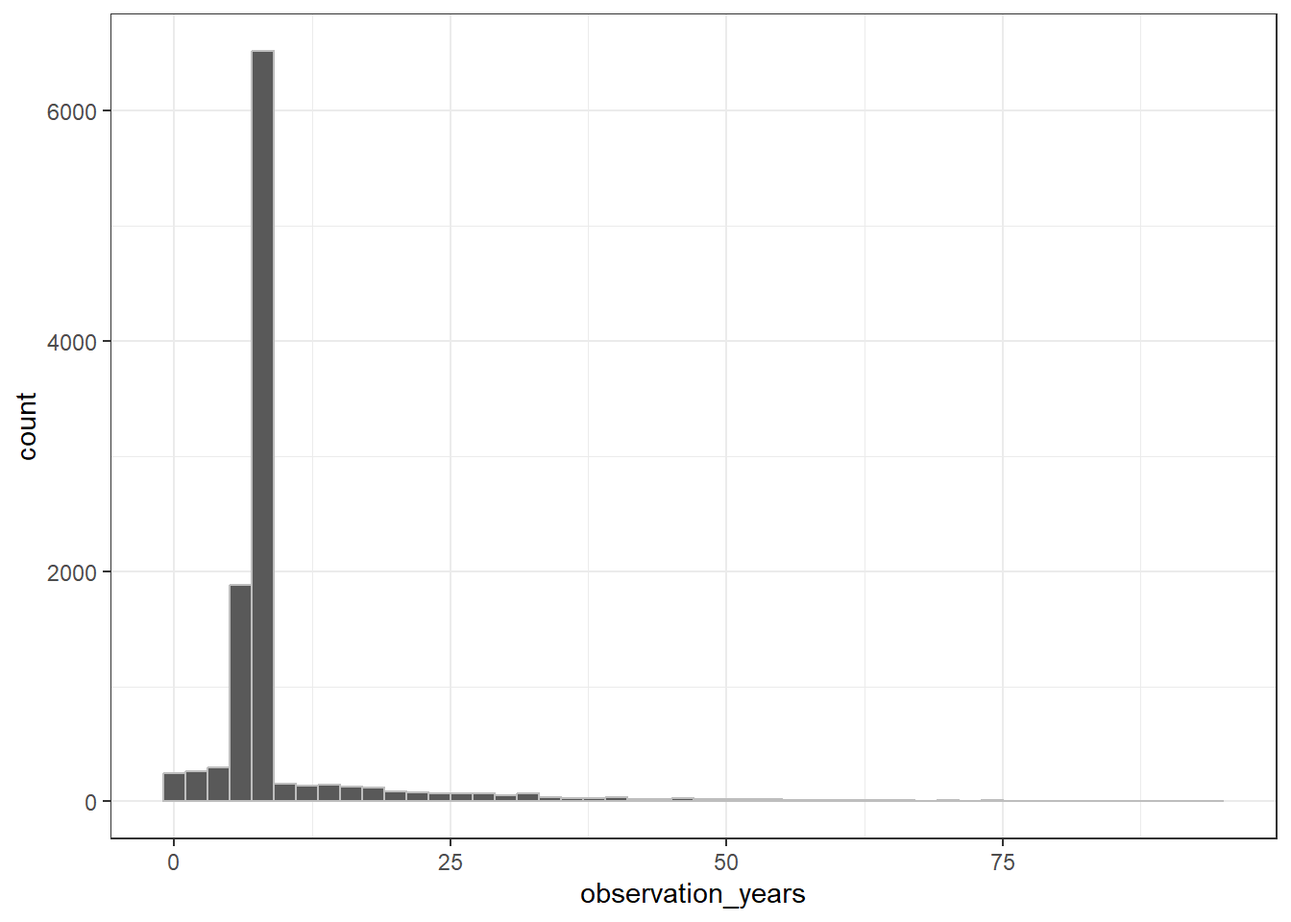
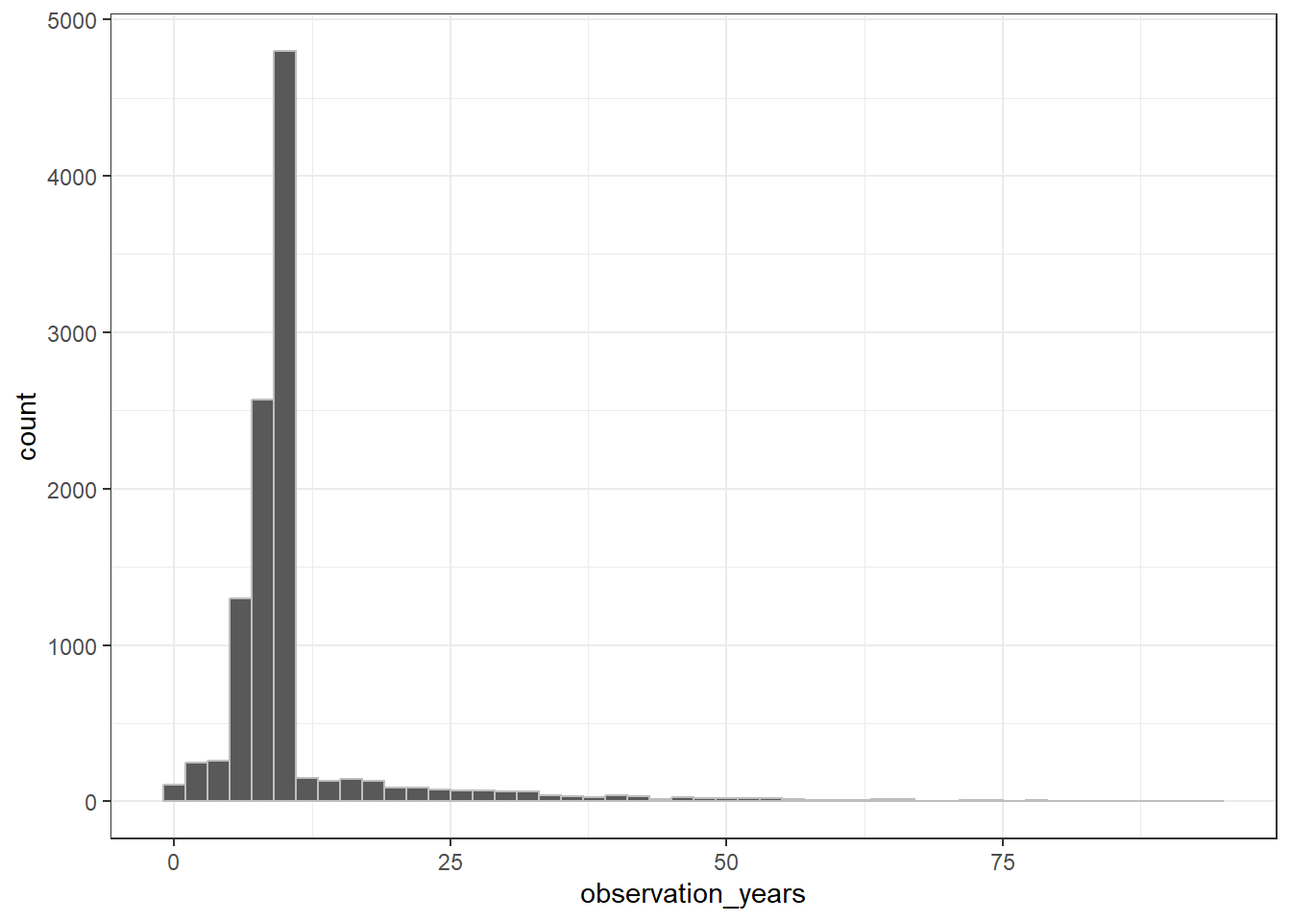
using clock

diff --git a/_book/ch_3_exploring_the_cdm.html b/_book/ch_3_exploring_the_cdm.html
@@ -196,18 +196,6 @@ pre > code.sourceCode > span > a:first-child::before { text-decoration: underlin
 </li>
         <li class="sidebar-item">
   <div class="sidebar-item-container"> 
-  <a href="./ch_9_organising_study_code.html" class="sidebar-item-text sidebar-link">
- <span class="menu-text"><span class="chapter-number">9</span>&nbsp; <span class="chapter-title">Organising study code</span></span></a>
-  </div>
-</li>
-        <li class="sidebar-item">
-  <div class="sidebar-item-container"> 
-  <a href="./ch_10_efficient_study_code.html" class="sidebar-item-text sidebar-link">
- <span class="menu-text"><span class="chapter-number">10</span>&nbsp; <span class="chapter-title">Efficient study code</span></span></a>
-  </div>
-</li>
-        <li class="sidebar-item">
-  <div class="sidebar-item-container"> 
   <a href="./references.html" class="sidebar-item-text sidebar-link">
  <span class="menu-text">References</span></a>
   </div>
@@ -378,8 +366,8 @@ FROM (
       observation_period_end_date,
       period_type_concept_id
     FROM main.person
-    LEFT JOIN og_001_1717170344
-      ON (person.person_id = og_001_1717170344.person_id)
+    LEFT JOIN og_001_1718360923
+      ON (person.person_id = og_001_1718360923.person_id)
   ) q01
 ) q01
 GROUP BY observation_period_start_year</code></pre>
@@ -443,7 +431,7 @@ GROUP BY observation_period_start_year</code></pre>
 <span id="cb14-6"><a href="#cb14-6" aria-hidden="true" tabindex="-1"></a>  <span class="fu">tally</span>()</span></code><button title="Copy to Clipboard" class="code-copy-button"><i class="bi"></i></button></pre></div>
 <div class="cell-output cell-output-stdout">
 <pre><code># Source:   SQL [1 x 1]
-# Database: DuckDB v0.10.3-dev775 [eburn@Windows 10 x64:R 4.4.0/C:\Users\eburn\AppData\Local\Temp\RtmpERbxve\file31a41afc7eb1.duckdb]
+# Database: DuckDB v1.0.0 [eburn@Windows 10 x64:R 4.4.0/C:\Users\eburn\AppData\Local\Temp\Rtmp2VsoWf\fileb90678c661f.duckdb]
       n
   &lt;dbl&gt;
 1  9305</code></pre>
@@ -456,7 +444,7 @@ GROUP BY observation_period_start_year</code></pre>
 <span id="cb16-6"><a href="#cb16-6" aria-hidden="true" tabindex="-1"></a>  <span class="fu">tally</span>()</span></code><button title="Copy to Clipboard" class="code-copy-button"><i class="bi"></i></button></pre></div>
 <div class="cell-output cell-output-stdout">
 <pre><code># Source:   SQL [1 x 1]
-# Database: DuckDB v0.10.3-dev775 [eburn@Windows 10 x64:R 4.4.0/C:\Users\eburn\AppData\Local\Temp\RtmpERbxve\file31a41afc7eb1.duckdb]
+# Database: DuckDB v1.0.0 [eburn@Windows 10 x64:R 4.4.0/C:\Users\eburn\AppData\Local\Temp\Rtmp2VsoWf\fileb90678c661f.duckdb]
        n
    &lt;dbl&gt;
 1 165681</code></pre>
@@ -475,7 +463,7 @@ GROUP BY observation_period_start_year</code></pre>
 <span id="cb18-9"><a href="#cb18-9" aria-hidden="true" tabindex="-1"></a>  <span class="fu">tally</span>()</span></code><button title="Copy to Clipboard" class="code-copy-button"><i class="bi"></i></button></pre></div>
 <div class="cell-output cell-output-stdout">
 <pre><code># Source:   SQL [1 x 1]
-# Database: DuckDB v0.10.3-dev775 [eburn@Windows 10 x64:R 4.4.0/C:\Users\eburn\AppData\Local\Temp\RtmpERbxve\file31a41afc7eb1.duckdb]
+# Database: DuckDB v1.0.0 [eburn@Windows 10 x64:R 4.4.0/C:\Users\eburn\AppData\Local\Temp\Rtmp2VsoWf\fileb90678c661f.duckdb]
       n
   &lt;dbl&gt;
 1  9305</code></pre>
@@ -487,7 +475,7 @@ GROUP BY observation_period_start_year</code></pre>
 <span id="cb20-5"><a href="#cb20-5" aria-hidden="true" tabindex="-1"></a>  <span class="fu">tally</span>()</span></code><button title="Copy to Clipboard" class="code-copy-button"><i class="bi"></i></button></pre></div>
 <div class="cell-output cell-output-stdout">
 <pre><code># Source:   SQL [1 x 1]
-# Database: DuckDB v0.10.3-dev775 [eburn@Windows 10 x64:R 4.4.0/C:\Users\eburn\AppData\Local\Temp\RtmpERbxve\file31a41afc7eb1.duckdb]
+# Database: DuckDB v1.0.0 [eburn@Windows 10 x64:R 4.4.0/C:\Users\eburn\AppData\Local\Temp\Rtmp2VsoWf\fileb90678c661f.duckdb]
        n
    &lt;dbl&gt;
 1 165681</code></pre>
@@ -565,7 +553,7 @@ Vocabulary tables
 <div class="cell-output cell-output-stdout">
 <pre><code>Rows: ??
 Columns: 10
-Database: DuckDB v0.10.3-dev775 [eburn@Windows 10 x64:R 4.4.0/C:\Users\eburn\AppData\Local\Temp\RtmpERbxve\file31a41afc7eb1.duckdb]
+Database: DuckDB v1.0.0 [eburn@Windows 10 x64:R 4.4.0/C:\Users\eburn\AppData\Local\Temp\Rtmp2VsoWf\fileb90678c661f.duckdb]
 $ concept_id       &lt;int&gt; 45756805, 45756804, 45756803, 45756802, 45756801, 457…
 $ concept_name     &lt;chr&gt; "Pediatric Cardiology", "Pediatric Anesthesiology", "…
 $ domain_id        &lt;chr&gt; "Provider", "Provider", "Provider", "Provider", "Prov…
@@ -585,7 +573,7 @@ $ invalid_reason   &lt;chr&gt; NA, NA, NA, NA, NA, NA, NA, NA, NA, NA, NA, NA, N
 <div class="cell-output cell-output-stdout">
 <pre><code>Rows: ??
 Columns: 6
-Database: DuckDB v0.10.3-dev775 [eburn@Windows 10 x64:R 4.4.0/C:\Users\eburn\AppData\Local\Temp\RtmpERbxve\file31a41afc7eb1.duckdb]
+Database: DuckDB v1.0.0 [eburn@Windows 10 x64:R 4.4.0/C:\Users\eburn\AppData\Local\Temp\Rtmp2VsoWf\fileb90678c661f.duckdb]
 $ concept_id_1     &lt;int&gt; 35804314, 35804314, 35804314, 35804327, 35804327, 358…
 $ concept_id_2     &lt;int&gt; 912065, 42542145, 42542145, 35803584, 42542145, 42542…
 $ relationship_id  &lt;chr&gt; "Has modality", "Has accepted use", "Is current in", …
@@ -598,7 +586,7 @@ $ invalid_reason   &lt;chr&gt; NA, NA, NA, NA, NA, NA, NA, NA, NA, NA, NA, NA, N
 <div class="cell-output cell-output-stdout">
 <pre><code>Rows: ??
 Columns: 4
-Database: DuckDB v0.10.3-dev775 [eburn@Windows 10 x64:R 4.4.0/C:\Users\eburn\AppData\Local\Temp\RtmpERbxve\file31a41afc7eb1.duckdb]
+Database: DuckDB v1.0.0 [eburn@Windows 10 x64:R 4.4.0/C:\Users\eburn\AppData\Local\Temp\Rtmp2VsoWf\fileb90678c661f.duckdb]
 $ ancestor_concept_id      &lt;int&gt; 375415, 727760, 735979, 438112, 529411, 14196…
 $ descendant_concept_id    &lt;int&gt; 4335743, 2056453, 41070383, 36566114, 4326940…
 $ min_levels_of_separation &lt;int&gt; 4, 1, 3, 2, 3, 3, 4, 3, 2, 5, 1, 3, 4, 2, 2, …
@@ -612,18 +600,53 @@ $ max_levels_of_separation &lt;int&gt; 4, 1, 5, 3, 3, 6, 12, 3, 2, 10, 1, 3, 4, 
 </section>
 <section id="working-with-dates" class="level2" data-number="3.3">
 <h2 data-number="3.3" class="anchored" data-anchor-id="working-with-dates"><span class="header-section-number">3.3</span> Working with dates</h2>
-<p>Dates are supported somewhat inconsistently by dbplyr. CDMConnector therefore provides some date functions that are tested to work across supported databases. We can use the <code>datediff()</code> function for example to calculate the difference between two dates. We can use this below to get the number of years observation periods last for.</p>
+<p>When working with dates, the best supported functions come from the <a href="https://clock.r-lib.org/">clock</a> package. In particular, the following three functions can allow us to do a lot of the date manipulations we might be interested in:</p>
+<ul>
+<li><p>clock::add_days to add days to a date</p></li>
+<li><p>clock::add_years to add years to a date</p></li>
+<li><p>clock::date_count_between to get the difference between two dates</p></li>
+</ul>
+<p>For example</p>
 <div class="cell">
-<div class="sourceCode cell-code" id="cb30"><pre class="sourceCode r code-with-copy"><code class="sourceCode r"><span id="cb30-1"><a href="#cb30-1" aria-hidden="true" tabindex="-1"></a>cdm<span class="sc">$</span>observation_period <span class="sc">%&gt;%</span></span>
-<span id="cb30-2"><a href="#cb30-2" aria-hidden="true" tabindex="-1"></a>  dplyr<span class="sc">::</span><span class="fu">mutate</span>(<span class="at">observation_years =</span> </span>
-<span id="cb30-3"><a href="#cb30-3" aria-hidden="true" tabindex="-1"></a>                  <span class="sc">!!</span>CDMConnector<span class="sc">::</span><span class="fu">datediff</span>(<span class="st">"observation_period_start_date"</span>, </span>
-<span id="cb30-4"><a href="#cb30-4" aria-hidden="true" tabindex="-1"></a>                             <span class="st">"observation_period_end_date"</span>, </span>
-<span id="cb30-5"><a href="#cb30-5" aria-hidden="true" tabindex="-1"></a>                             <span class="at">interval =</span> <span class="st">"year"</span>))  <span class="sc">%&gt;%</span> </span>
-<span id="cb30-6"><a href="#cb30-6" aria-hidden="true" tabindex="-1"></a>  <span class="fu">collect</span>() <span class="sc">%&gt;%</span> </span>
-<span id="cb30-7"><a href="#cb30-7" aria-hidden="true" tabindex="-1"></a>  <span class="fu">ggplot</span>() <span class="sc">+</span></span>
-<span id="cb30-8"><a href="#cb30-8" aria-hidden="true" tabindex="-1"></a>  <span class="fu">geom_histogram</span>(<span class="fu">aes</span>(observation_years), </span>
-<span id="cb30-9"><a href="#cb30-9" aria-hidden="true" tabindex="-1"></a>                 <span class="at">binwidth=</span><span class="dv">2</span>, <span class="at">colour=</span><span class="st">"grey"</span>) <span class="sc">+</span></span>
-<span id="cb30-10"><a href="#cb30-10" aria-hidden="true" tabindex="-1"></a>  <span class="fu">theme_bw</span>()</span></code><button title="Copy to Clipboard" class="code-copy-button"><i class="bi"></i></button></pre></div>
+<div class="sourceCode cell-code" id="cb30"><pre class="sourceCode r code-with-copy"><code class="sourceCode r"><span id="cb30-1"><a href="#cb30-1" aria-hidden="true" tabindex="-1"></a><span class="fu">library</span>(clock)</span></code><button title="Copy to Clipboard" class="code-copy-button"><i class="bi"></i></button></pre></div>
+<div class="cell-output cell-output-stderr">
+<pre><code>
+Attaching package: 'clock'</code></pre>
+</div>
+<div class="cell-output cell-output-stderr">
+<pre><code>The following object is masked from 'package:CDMConnector':
+
+    as_date</code></pre>
+</div>
+<div class="sourceCode cell-code" id="cb33"><pre class="sourceCode r code-with-copy"><code class="sourceCode r"><span id="cb33-1"><a href="#cb33-1" aria-hidden="true" tabindex="-1"></a><span class="fu">library</span>(ggplot2)</span>
+<span id="cb33-2"><a href="#cb33-2" aria-hidden="true" tabindex="-1"></a></span>
+<span id="cb33-3"><a href="#cb33-3" aria-hidden="true" tabindex="-1"></a>cdm<span class="sc">$</span>observation_period <span class="sc">|&gt;</span> </span>
+<span id="cb33-4"><a href="#cb33-4" aria-hidden="true" tabindex="-1"></a>  <span class="fu">mutate</span>(<span class="at">observation_period_start_plus_30_days =</span> <span class="fu">add_days</span>(observation_period_start_date,</span>
+<span id="cb33-5"><a href="#cb33-5" aria-hidden="true" tabindex="-1"></a>                                                   <span class="dv">30</span>L),</span>
+<span id="cb33-6"><a href="#cb33-6" aria-hidden="true" tabindex="-1"></a>         <span class="at">observation_period_start_date_plus_10_years =</span> <span class="fu">add_years</span>(observation_period_start_date,</span>
+<span id="cb33-7"><a href="#cb33-7" aria-hidden="true" tabindex="-1"></a>                                                   <span class="dv">10</span>L)) <span class="sc">|&gt;</span> </span>
+<span id="cb33-8"><a href="#cb33-8" aria-hidden="true" tabindex="-1"></a>  <span class="fu">glimpse</span>()</span></code><button title="Copy to Clipboard" class="code-copy-button"><i class="bi"></i></button></pre></div>
+<div class="cell-output cell-output-stdout">
+<pre><code>Rows: ??
+Columns: 7
+Database: DuckDB v1.0.0 [eburn@Windows 10 x64:R 4.4.0/C:\Users\eburn\AppData\Local\Temp\Rtmp2VsoWf\fileb90678c661f.duckdb]
+$ observation_period_id                       &lt;int&gt; 1, 2, 3, 4, 5, 6, 7, 8, 9,…
+$ person_id                                   &lt;int&gt; 1, 2, 3, 4, 5, 6, 7, 8, 9,…
+$ observation_period_start_date               &lt;date&gt; 2014-05-09, 1977-04-11, 2…
+$ observation_period_end_date                 &lt;date&gt; 2023-05-12, 1986-09-15, 2…
+$ period_type_concept_id                      &lt;int&gt; 44814724, 44814724, 448147…
+$ observation_period_start_plus_30_days       &lt;dttm&gt; 2014-06-08, 1977-05-11, 2…
+$ observation_period_start_date_plus_10_years &lt;dttm&gt; 2024-05-09, 1987-04-11, 2…</code></pre>
+</div>
+<div class="sourceCode cell-code" id="cb35"><pre class="sourceCode r code-with-copy"><code class="sourceCode r"><span id="cb35-1"><a href="#cb35-1" aria-hidden="true" tabindex="-1"></a>cdm<span class="sc">$</span>observation_period <span class="sc">|&gt;</span> </span>
+<span id="cb35-2"><a href="#cb35-2" aria-hidden="true" tabindex="-1"></a>  dplyr<span class="sc">::</span><span class="fu">mutate</span>(<span class="at">observation_days =</span> <span class="fu">date_count_between</span>(<span class="st">"observation_period_start_date"</span>, </span>
+<span id="cb35-3"><a href="#cb35-3" aria-hidden="true" tabindex="-1"></a>                             <span class="st">"observation_period_end_date"</span>, <span class="st">"day"</span>))  <span class="sc">|&gt;</span> </span>
+<span id="cb35-4"><a href="#cb35-4" aria-hidden="true" tabindex="-1"></a>  dplyr<span class="sc">::</span><span class="fu">mutate</span>(<span class="at">observation_years =</span> observation_days<span class="sc">/</span> <span class="fl">365.25</span>) <span class="sc">|&gt;</span> </span>
+<span id="cb35-5"><a href="#cb35-5" aria-hidden="true" tabindex="-1"></a>  <span class="fu">collect</span>() <span class="sc">%&gt;%</span> </span>
+<span id="cb35-6"><a href="#cb35-6" aria-hidden="true" tabindex="-1"></a>  <span class="fu">ggplot</span>() <span class="sc">+</span></span>
+<span id="cb35-7"><a href="#cb35-7" aria-hidden="true" tabindex="-1"></a>  <span class="fu">geom_histogram</span>(<span class="fu">aes</span>(observation_years), </span>
+<span id="cb35-8"><a href="#cb35-8" aria-hidden="true" tabindex="-1"></a>                 <span class="at">binwidth=</span><span class="dv">2</span>, <span class="at">colour=</span><span class="st">"grey"</span>) <span class="sc">+</span></span>
+<span id="cb35-9"><a href="#cb35-9" aria-hidden="true" tabindex="-1"></a>  <span class="fu">theme_bw</span>()</span></code><button title="Copy to Clipboard" class="code-copy-button"><i class="bi"></i></button></pre></div>
 <div class="cell-output-display">
 <div>
 <figure class="figure">
@@ -637,18 +660,18 @@ $ max_levels_of_separation &lt;int&gt; 4, 1, 5, 3, 3, 6, 12, 3, 2, 10, 1, 3, 4, 
 <h2 data-number="3.4" class="anchored" data-anchor-id="statistical-summaries"><span class="header-section-number">3.4</span> Statistical summaries</h2>
 <p>We can also use summarise for various other calculations</p>
 <div class="cell">
-<div class="sourceCode cell-code" id="cb31"><pre class="sourceCode r code-with-copy"><code class="sourceCode r"><span id="cb31-1"><a href="#cb31-1" aria-hidden="true" tabindex="-1"></a>cdm<span class="sc">$</span>person <span class="sc">%&gt;%</span> </span>
-<span id="cb31-2"><a href="#cb31-2" aria-hidden="true" tabindex="-1"></a>  <span class="fu">summarise</span>(<span class="at">min_year_of_birth =</span> <span class="fu">min</span>(year_of_birth, <span class="at">na.rm=</span><span class="cn">TRUE</span>),</span>
-<span id="cb31-3"><a href="#cb31-3" aria-hidden="true" tabindex="-1"></a>            <span class="at">q05_year_of_birth =</span> <span class="fu">quantile</span>(year_of_birth, <span class="fl">0.05</span>, <span class="at">na.rm=</span><span class="cn">TRUE</span>),</span>
-<span id="cb31-4"><a href="#cb31-4" aria-hidden="true" tabindex="-1"></a>            <span class="at">mean_year_of_birth =</span> <span class="fu">round</span>(<span class="fu">mean</span>(year_of_birth, <span class="at">na.rm=</span><span class="cn">TRUE</span>),<span class="dv">0</span>),</span>
-<span id="cb31-5"><a href="#cb31-5" aria-hidden="true" tabindex="-1"></a>            <span class="at">median_year_of_birth =</span> <span class="fu">median</span>(year_of_birth, <span class="at">na.rm=</span><span class="cn">TRUE</span>),</span>
-<span id="cb31-6"><a href="#cb31-6" aria-hidden="true" tabindex="-1"></a>            <span class="at">q95_year_of_birth =</span> <span class="fu">quantile</span>(year_of_birth, <span class="fl">0.95</span>, <span class="at">na.rm=</span><span class="cn">TRUE</span>),</span>
-<span id="cb31-7"><a href="#cb31-7" aria-hidden="true" tabindex="-1"></a>            <span class="at">max_year_of_birth =</span> <span class="fu">max</span>(year_of_birth, <span class="at">na.rm=</span><span class="cn">TRUE</span>)) <span class="sc">%&gt;%</span>  </span>
-<span id="cb31-8"><a href="#cb31-8" aria-hidden="true" tabindex="-1"></a>  <span class="fu">glimpse</span>()</span></code><button title="Copy to Clipboard" class="code-copy-button"><i class="bi"></i></button></pre></div>
+<div class="sourceCode cell-code" id="cb36"><pre class="sourceCode r code-with-copy"><code class="sourceCode r"><span id="cb36-1"><a href="#cb36-1" aria-hidden="true" tabindex="-1"></a>cdm<span class="sc">$</span>person <span class="sc">%&gt;%</span> </span>
+<span id="cb36-2"><a href="#cb36-2" aria-hidden="true" tabindex="-1"></a>  <span class="fu">summarise</span>(<span class="at">min_year_of_birth =</span> <span class="fu">min</span>(year_of_birth, <span class="at">na.rm=</span><span class="cn">TRUE</span>),</span>
+<span id="cb36-3"><a href="#cb36-3" aria-hidden="true" tabindex="-1"></a>            <span class="at">q05_year_of_birth =</span> <span class="fu">quantile</span>(year_of_birth, <span class="fl">0.05</span>, <span class="at">na.rm=</span><span class="cn">TRUE</span>),</span>
+<span id="cb36-4"><a href="#cb36-4" aria-hidden="true" tabindex="-1"></a>            <span class="at">mean_year_of_birth =</span> <span class="fu">round</span>(<span class="fu">mean</span>(year_of_birth, <span class="at">na.rm=</span><span class="cn">TRUE</span>),<span class="dv">0</span>),</span>
+<span id="cb36-5"><a href="#cb36-5" aria-hidden="true" tabindex="-1"></a>            <span class="at">median_year_of_birth =</span> <span class="fu">median</span>(year_of_birth, <span class="at">na.rm=</span><span class="cn">TRUE</span>),</span>
+<span id="cb36-6"><a href="#cb36-6" aria-hidden="true" tabindex="-1"></a>            <span class="at">q95_year_of_birth =</span> <span class="fu">quantile</span>(year_of_birth, <span class="fl">0.95</span>, <span class="at">na.rm=</span><span class="cn">TRUE</span>),</span>
+<span id="cb36-7"><a href="#cb36-7" aria-hidden="true" tabindex="-1"></a>            <span class="at">max_year_of_birth =</span> <span class="fu">max</span>(year_of_birth, <span class="at">na.rm=</span><span class="cn">TRUE</span>)) <span class="sc">%&gt;%</span>  </span>
+<span id="cb36-8"><a href="#cb36-8" aria-hidden="true" tabindex="-1"></a>  <span class="fu">glimpse</span>()</span></code><button title="Copy to Clipboard" class="code-copy-button"><i class="bi"></i></button></pre></div>
 <div class="cell-output cell-output-stdout">
 <pre><code>Rows: ??
 Columns: 6
-Database: DuckDB v0.10.3-dev775 [eburn@Windows 10 x64:R 4.4.0/C:\Users\eburn\AppData\Local\Temp\RtmpERbxve\file31a41afc7eb1.duckdb]
+Database: DuckDB v1.0.0 [eburn@Windows 10 x64:R 4.4.0/C:\Users\eburn\AppData\Local\Temp\Rtmp2VsoWf\fileb90678c661f.duckdb]
 $ min_year_of_birth    &lt;int&gt; 1923
 $ q05_year_of_birth    &lt;dbl&gt; 1927
 $ mean_year_of_birth   &lt;dbl&gt; 1971
@@ -672,51 +695,47 @@ Piping and SQL
 <p>Although piping queries has little impact on performance when using R with data in memory, when working with a database the SQL generated will differ when using multiple function calls (with a separate operation specified in each) instead of multiple operations within a single function call.</p>
 <p>For example, a single mutate function above would generate the below SQL.</p>
 <div class="cell">
-<div class="sourceCode cell-code" id="cb33"><pre class="sourceCode r code-with-copy"><code class="sourceCode r"><span id="cb33-1"><a href="#cb33-1" aria-hidden="true" tabindex="-1"></a>cdm<span class="sc">$</span>observation_period <span class="sc">%&gt;%</span></span>
-<span id="cb33-2"><a href="#cb33-2" aria-hidden="true" tabindex="-1"></a>  <span class="fu">mutate</span>(<span class="at">observation_days =</span> <span class="sc">!!</span><span class="fu">datediff</span>(<span class="st">"observation_period_start_date"</span>, </span>
-<span id="cb33-3"><a href="#cb33-3" aria-hidden="true" tabindex="-1"></a>                             <span class="st">"observation_period_end_date"</span>, </span>
-<span id="cb33-4"><a href="#cb33-4" aria-hidden="true" tabindex="-1"></a>                             <span class="at">interval =</span> <span class="st">"day"</span>),</span>
-<span id="cb33-5"><a href="#cb33-5" aria-hidden="true" tabindex="-1"></a>        <span class="at">observation_years =</span> <span class="sc">!!</span><span class="fu">datediff</span>(<span class="st">"observation_period_start_date"</span>, </span>
-<span id="cb33-6"><a href="#cb33-6" aria-hidden="true" tabindex="-1"></a>                             <span class="st">"observation_period_end_date"</span>, </span>
-<span id="cb33-7"><a href="#cb33-7" aria-hidden="true" tabindex="-1"></a>                             <span class="at">interval =</span> <span class="st">"year"</span>)) <span class="sc">%&gt;%</span> </span>
-<span id="cb33-8"><a href="#cb33-8" aria-hidden="true" tabindex="-1"></a>  <span class="fu">select</span>(<span class="st">"observation_period_id"</span>, <span class="st">"person_id"</span>, </span>
-<span id="cb33-9"><a href="#cb33-9" aria-hidden="true" tabindex="-1"></a>         <span class="st">"observation_days"</span>,<span class="st">"observation_years"</span>) <span class="sc">%&gt;%</span> </span>
-<span id="cb33-10"><a href="#cb33-10" aria-hidden="true" tabindex="-1"></a>  <span class="fu">show_query</span>()</span></code><button title="Copy to Clipboard" class="code-copy-button"><i class="bi"></i></button></pre></div>
+<div class="sourceCode cell-code" id="cb38"><pre class="sourceCode r code-with-copy"><code class="sourceCode r"><span id="cb38-1"><a href="#cb38-1" aria-hidden="true" tabindex="-1"></a>cdm<span class="sc">$</span>observation_period <span class="sc">|&gt;</span> </span>
+<span id="cb38-2"><a href="#cb38-2" aria-hidden="true" tabindex="-1"></a>  <span class="fu">mutate</span>(<span class="at">observation_period_start_plus_30_days =</span> <span class="fu">add_days</span>(observation_period_start_date,</span>
+<span id="cb38-3"><a href="#cb38-3" aria-hidden="true" tabindex="-1"></a>                                                   <span class="dv">30</span>L),</span>
+<span id="cb38-4"><a href="#cb38-4" aria-hidden="true" tabindex="-1"></a>         <span class="at">observation_period_start_date_plus_10_years =</span> <span class="fu">add_years</span>(observation_period_start_date,</span>
+<span id="cb38-5"><a href="#cb38-5" aria-hidden="true" tabindex="-1"></a>                                                   <span class="dv">10</span>L)) <span class="sc">|&gt;</span> </span>
+<span id="cb38-6"><a href="#cb38-6" aria-hidden="true" tabindex="-1"></a>  <span class="fu">select</span>(<span class="st">"observation_period_id"</span>, <span class="st">"person_id"</span>, </span>
+<span id="cb38-7"><a href="#cb38-7" aria-hidden="true" tabindex="-1"></a>         <span class="st">"observation_period_start_plus_30_days"</span>,</span>
+<span id="cb38-8"><a href="#cb38-8" aria-hidden="true" tabindex="-1"></a>         <span class="st">"observation_period_start_date_plus_10_years"</span>) <span class="sc">%&gt;%</span> </span>
+<span id="cb38-9"><a href="#cb38-9" aria-hidden="true" tabindex="-1"></a>  <span class="fu">show_query</span>()</span></code><button title="Copy to Clipboard" class="code-copy-button"><i class="bi"></i></button></pre></div>
 <div class="cell-output cell-output-stdout">
 <pre><code>&lt;SQL&gt;
 SELECT
   observation_period_id,
   person_id,
-  datediff('day', observation_period_start_date, observation_period_end_date) AS observation_days,
-  FLOOR((date_part('year', observation_period_end_date) * 10000 + date_part('month', observation_period_end_date) * 100 + date_part('day', observation_period_end_date) -
-(date_part('year', observation_period_start_date) * 10000 + date_part('month', observation_period_start_date) * 100 + date_part('day', observation_period_start_date))) / 10000) AS observation_years
+  DATE_ADD(observation_period_start_date, INTERVAL '30 day') AS observation_period_start_plus_30_days,
+  DATE_ADD(observation_period_start_date, INTERVAL '10 year') AS observation_period_start_date_plus_10_years
 FROM main.observation_period</code></pre>
 </div>
 </div>
 <p>Whereas the SQL will be different if using multiple mutate calls (now using a sub-query).</p>
 <div class="cell">
-<div class="sourceCode cell-code" id="cb35"><pre class="sourceCode r code-with-copy"><code class="sourceCode r"><span id="cb35-1"><a href="#cb35-1" aria-hidden="true" tabindex="-1"></a>cdm<span class="sc">$</span>observation_period <span class="sc">%&gt;%</span></span>
-<span id="cb35-2"><a href="#cb35-2" aria-hidden="true" tabindex="-1"></a>  <span class="fu">mutate</span>(<span class="at">observation_days =</span> <span class="sc">!!</span><span class="fu">datediff</span>(<span class="st">"observation_period_start_date"</span>, </span>
-<span id="cb35-3"><a href="#cb35-3" aria-hidden="true" tabindex="-1"></a>                             <span class="st">"observation_period_end_date"</span>, </span>
-<span id="cb35-4"><a href="#cb35-4" aria-hidden="true" tabindex="-1"></a>                             <span class="at">interval =</span> <span class="st">"day"</span>)) <span class="sc">%&gt;%</span> </span>
-<span id="cb35-5"><a href="#cb35-5" aria-hidden="true" tabindex="-1"></a>  <span class="fu">mutate</span>(<span class="at">observation_years =</span> <span class="sc">!!</span><span class="fu">datediff</span>(<span class="st">"observation_period_start_date"</span>, </span>
-<span id="cb35-6"><a href="#cb35-6" aria-hidden="true" tabindex="-1"></a>                             <span class="st">"observation_period_end_date"</span>, </span>
-<span id="cb35-7"><a href="#cb35-7" aria-hidden="true" tabindex="-1"></a>                             <span class="at">interval =</span> <span class="st">"year"</span>)) <span class="sc">%&gt;%</span> </span>
-<span id="cb35-8"><a href="#cb35-8" aria-hidden="true" tabindex="-1"></a>  <span class="fu">select</span>(<span class="st">"observation_period_id"</span>, <span class="st">"person_id"</span>, </span>
-<span id="cb35-9"><a href="#cb35-9" aria-hidden="true" tabindex="-1"></a>         <span class="st">"observation_days"</span>,<span class="st">"observation_years"</span>) <span class="sc">%&gt;%</span> </span>
-<span id="cb35-10"><a href="#cb35-10" aria-hidden="true" tabindex="-1"></a>  <span class="fu">show_query</span>()</span></code><button title="Copy to Clipboard" class="code-copy-button"><i class="bi"></i></button></pre></div>
+<div class="sourceCode cell-code" id="cb40"><pre class="sourceCode r code-with-copy"><code class="sourceCode r"><span id="cb40-1"><a href="#cb40-1" aria-hidden="true" tabindex="-1"></a>cdm<span class="sc">$</span>observation_period <span class="sc">|&gt;</span> </span>
+<span id="cb40-2"><a href="#cb40-2" aria-hidden="true" tabindex="-1"></a>  <span class="fu">mutate</span>(<span class="at">observation_period_start_plus_30_days =</span> <span class="fu">add_days</span>(observation_period_start_date,</span>
+<span id="cb40-3"><a href="#cb40-3" aria-hidden="true" tabindex="-1"></a>                                                   <span class="dv">30</span>L)) <span class="sc">|&gt;</span> </span>
+<span id="cb40-4"><a href="#cb40-4" aria-hidden="true" tabindex="-1"></a>  <span class="fu">mutate</span>(<span class="at">observation_period_start_date_plus_10_years =</span> <span class="fu">add_years</span>(observation_period_start_date,</span>
+<span id="cb40-5"><a href="#cb40-5" aria-hidden="true" tabindex="-1"></a>                                                   <span class="dv">10</span>L)) <span class="sc">|&gt;</span> </span>
+<span id="cb40-6"><a href="#cb40-6" aria-hidden="true" tabindex="-1"></a>  <span class="fu">select</span>(<span class="st">"observation_period_id"</span>, <span class="st">"person_id"</span>, </span>
+<span id="cb40-7"><a href="#cb40-7" aria-hidden="true" tabindex="-1"></a>         <span class="st">"observation_period_start_plus_30_days"</span>,</span>
+<span id="cb40-8"><a href="#cb40-8" aria-hidden="true" tabindex="-1"></a>         <span class="st">"observation_period_start_date_plus_10_years"</span>) <span class="sc">%&gt;%</span> </span>
+<span id="cb40-9"><a href="#cb40-9" aria-hidden="true" tabindex="-1"></a>  <span class="fu">show_query</span>()</span></code><button title="Copy to Clipboard" class="code-copy-button"><i class="bi"></i></button></pre></div>
 <div class="cell-output cell-output-stdout">
 <pre><code>&lt;SQL&gt;
 SELECT
   observation_period_id,
   person_id,
-  observation_days,
-  FLOOR((date_part('year', observation_period_end_date) * 10000 + date_part('month', observation_period_end_date) * 100 + date_part('day', observation_period_end_date) -
-(date_part('year', observation_period_start_date) * 10000 + date_part('month', observation_period_start_date) * 100 + date_part('day', observation_period_start_date))) / 10000) AS observation_years
+  observation_period_start_plus_30_days,
+  DATE_ADD(observation_period_start_date, INTERVAL '10 year') AS observation_period_start_date_plus_10_years
 FROM (
   SELECT
     observation_period.*,
-    datediff('day', observation_period_start_date, observation_period_end_date) AS observation_days
+    DATE_ADD(observation_period_start_date, INTERVAL '30 day') AS observation_period_start_plus_30_days
   FROM main.observation_period
 ) q01</code></pre>
 </div>
@@ -726,28 +745,28 @@ FROM (
 </div>
 <p>As we’ve seen before, we can also quickly get results for various groupings or restrictions</p>
 <div class="cell">
-<div class="sourceCode cell-code" id="cb37"><pre class="sourceCode r code-with-copy"><code class="sourceCode r"><span id="cb37-1"><a href="#cb37-1" aria-hidden="true" tabindex="-1"></a>cdm<span class="sc">$</span>person <span class="sc">%&gt;%</span> </span>
-<span id="cb37-2"><a href="#cb37-2" aria-hidden="true" tabindex="-1"></a>   <span class="fu">group_by</span>(gender_concept_id) <span class="sc">%&gt;%</span> </span>
-<span id="cb37-3"><a href="#cb37-3" aria-hidden="true" tabindex="-1"></a>   <span class="fu">summarise</span>(<span class="at">min_year_of_birth =</span> <span class="fu">min</span>(year_of_birth, <span class="at">na.rm=</span><span class="cn">TRUE</span>),</span>
-<span id="cb37-4"><a href="#cb37-4" aria-hidden="true" tabindex="-1"></a>            <span class="at">q25_year_of_birth =</span> <span class="fu">quantile</span>(year_of_birth, <span class="fl">0.25</span>, <span class="at">na.rm=</span><span class="cn">TRUE</span>),</span>
-<span id="cb37-5"><a href="#cb37-5" aria-hidden="true" tabindex="-1"></a>            <span class="at">median_year_of_birth =</span> <span class="fu">median</span>(year_of_birth, <span class="at">na.rm=</span><span class="cn">TRUE</span>),</span>
-<span id="cb37-6"><a href="#cb37-6" aria-hidden="true" tabindex="-1"></a>            <span class="at">q75_year_of_birth =</span> <span class="fu">quantile</span>(year_of_birth, <span class="fl">0.75</span>, <span class="at">na.rm=</span><span class="cn">TRUE</span>),</span>
-<span id="cb37-7"><a href="#cb37-7" aria-hidden="true" tabindex="-1"></a>            <span class="at">max_year_of_birth =</span> <span class="fu">max</span>(year_of_birth, <span class="at">na.rm=</span><span class="cn">TRUE</span>)) <span class="sc">%&gt;%</span> </span>
-<span id="cb37-8"><a href="#cb37-8" aria-hidden="true" tabindex="-1"></a>  <span class="fu">left_join</span>(cdm<span class="sc">$</span>concept, </span>
-<span id="cb37-9"><a href="#cb37-9" aria-hidden="true" tabindex="-1"></a>            <span class="at">by=</span><span class="fu">c</span>(<span class="st">"gender_concept_id"</span> <span class="ot">=</span> <span class="st">"concept_id"</span>)) <span class="sc">%&gt;%</span> </span>
-<span id="cb37-10"><a href="#cb37-10" aria-hidden="true" tabindex="-1"></a>   <span class="fu">collect</span>() <span class="sc">%&gt;%</span> </span>
-<span id="cb37-11"><a href="#cb37-11" aria-hidden="true" tabindex="-1"></a>  <span class="fu">ggplot</span>(<span class="fu">aes</span>(<span class="at">x =</span> concept_name, <span class="at">group =</span> concept_name,</span>
-<span id="cb37-12"><a href="#cb37-12" aria-hidden="true" tabindex="-1"></a>             <span class="at">fill =</span> concept_name)) <span class="sc">+</span></span>
-<span id="cb37-13"><a href="#cb37-13" aria-hidden="true" tabindex="-1"></a>  <span class="fu">geom_boxplot</span>(<span class="fu">aes</span>(</span>
-<span id="cb37-14"><a href="#cb37-14" aria-hidden="true" tabindex="-1"></a>    <span class="at">lower =</span> q25_year_of_birth, </span>
-<span id="cb37-15"><a href="#cb37-15" aria-hidden="true" tabindex="-1"></a>    <span class="at">upper =</span> q75_year_of_birth, </span>
-<span id="cb37-16"><a href="#cb37-16" aria-hidden="true" tabindex="-1"></a>    <span class="at">middle =</span> median_year_of_birth, </span>
-<span id="cb37-17"><a href="#cb37-17" aria-hidden="true" tabindex="-1"></a>    <span class="at">ymin =</span> min_year_of_birth, </span>
-<span id="cb37-18"><a href="#cb37-18" aria-hidden="true" tabindex="-1"></a>    <span class="at">ymax =</span> max_year_of_birth),</span>
-<span id="cb37-19"><a href="#cb37-19" aria-hidden="true" tabindex="-1"></a>    <span class="at">stat =</span> <span class="st">"identity"</span>, <span class="at">width =</span> <span class="fl">0.5</span>) <span class="sc">+</span> </span>
-<span id="cb37-20"><a href="#cb37-20" aria-hidden="true" tabindex="-1"></a>  <span class="fu">theme_bw</span>()<span class="sc">+</span> </span>
-<span id="cb37-21"><a href="#cb37-21" aria-hidden="true" tabindex="-1"></a>  <span class="fu">theme</span>(<span class="at">legend.position =</span> <span class="st">"none"</span>) <span class="sc">+</span></span>
-<span id="cb37-22"><a href="#cb37-22" aria-hidden="true" tabindex="-1"></a>  <span class="fu">xlab</span>(<span class="st">""</span>)</span></code><button title="Copy to Clipboard" class="code-copy-button"><i class="bi"></i></button></pre></div>
+<div class="sourceCode cell-code" id="cb42"><pre class="sourceCode r code-with-copy"><code class="sourceCode r"><span id="cb42-1"><a href="#cb42-1" aria-hidden="true" tabindex="-1"></a>cdm<span class="sc">$</span>person <span class="sc">%&gt;%</span> </span>
+<span id="cb42-2"><a href="#cb42-2" aria-hidden="true" tabindex="-1"></a>   <span class="fu">group_by</span>(gender_concept_id) <span class="sc">%&gt;%</span> </span>
+<span id="cb42-3"><a href="#cb42-3" aria-hidden="true" tabindex="-1"></a>   <span class="fu">summarise</span>(<span class="at">min_year_of_birth =</span> <span class="fu">min</span>(year_of_birth, <span class="at">na.rm=</span><span class="cn">TRUE</span>),</span>
+<span id="cb42-4"><a href="#cb42-4" aria-hidden="true" tabindex="-1"></a>            <span class="at">q25_year_of_birth =</span> <span class="fu">quantile</span>(year_of_birth, <span class="fl">0.25</span>, <span class="at">na.rm=</span><span class="cn">TRUE</span>),</span>
+<span id="cb42-5"><a href="#cb42-5" aria-hidden="true" tabindex="-1"></a>            <span class="at">median_year_of_birth =</span> <span class="fu">median</span>(year_of_birth, <span class="at">na.rm=</span><span class="cn">TRUE</span>),</span>
+<span id="cb42-6"><a href="#cb42-6" aria-hidden="true" tabindex="-1"></a>            <span class="at">q75_year_of_birth =</span> <span class="fu">quantile</span>(year_of_birth, <span class="fl">0.75</span>, <span class="at">na.rm=</span><span class="cn">TRUE</span>),</span>
+<span id="cb42-7"><a href="#cb42-7" aria-hidden="true" tabindex="-1"></a>            <span class="at">max_year_of_birth =</span> <span class="fu">max</span>(year_of_birth, <span class="at">na.rm=</span><span class="cn">TRUE</span>)) <span class="sc">%&gt;%</span> </span>
+<span id="cb42-8"><a href="#cb42-8" aria-hidden="true" tabindex="-1"></a>  <span class="fu">left_join</span>(cdm<span class="sc">$</span>concept, </span>
+<span id="cb42-9"><a href="#cb42-9" aria-hidden="true" tabindex="-1"></a>            <span class="at">by=</span><span class="fu">c</span>(<span class="st">"gender_concept_id"</span> <span class="ot">=</span> <span class="st">"concept_id"</span>)) <span class="sc">%&gt;%</span> </span>
+<span id="cb42-10"><a href="#cb42-10" aria-hidden="true" tabindex="-1"></a>   <span class="fu">collect</span>() <span class="sc">%&gt;%</span> </span>
+<span id="cb42-11"><a href="#cb42-11" aria-hidden="true" tabindex="-1"></a>  <span class="fu">ggplot</span>(<span class="fu">aes</span>(<span class="at">x =</span> concept_name, <span class="at">group =</span> concept_name,</span>
+<span id="cb42-12"><a href="#cb42-12" aria-hidden="true" tabindex="-1"></a>             <span class="at">fill =</span> concept_name)) <span class="sc">+</span></span>
+<span id="cb42-13"><a href="#cb42-13" aria-hidden="true" tabindex="-1"></a>  <span class="fu">geom_boxplot</span>(<span class="fu">aes</span>(</span>
+<span id="cb42-14"><a href="#cb42-14" aria-hidden="true" tabindex="-1"></a>    <span class="at">lower =</span> q25_year_of_birth, </span>
+<span id="cb42-15"><a href="#cb42-15" aria-hidden="true" tabindex="-1"></a>    <span class="at">upper =</span> q75_year_of_birth, </span>
+<span id="cb42-16"><a href="#cb42-16" aria-hidden="true" tabindex="-1"></a>    <span class="at">middle =</span> median_year_of_birth, </span>
+<span id="cb42-17"><a href="#cb42-17" aria-hidden="true" tabindex="-1"></a>    <span class="at">ymin =</span> min_year_of_birth, </span>
+<span id="cb42-18"><a href="#cb42-18" aria-hidden="true" tabindex="-1"></a>    <span class="at">ymax =</span> max_year_of_birth),</span>
+<span id="cb42-19"><a href="#cb42-19" aria-hidden="true" tabindex="-1"></a>    <span class="at">stat =</span> <span class="st">"identity"</span>, <span class="at">width =</span> <span class="fl">0.5</span>) <span class="sc">+</span> </span>
+<span id="cb42-20"><a href="#cb42-20" aria-hidden="true" tabindex="-1"></a>  <span class="fu">theme_bw</span>()<span class="sc">+</span> </span>
+<span id="cb42-21"><a href="#cb42-21" aria-hidden="true" tabindex="-1"></a>  <span class="fu">theme</span>(<span class="at">legend.position =</span> <span class="st">"none"</span>) <span class="sc">+</span></span>
+<span id="cb42-22"><a href="#cb42-22" aria-hidden="true" tabindex="-1"></a>  <span class="fu">xlab</span>(<span class="st">""</span>)</span></code><button title="Copy to Clipboard" class="code-copy-button"><i class="bi"></i></button></pre></div>
 <div class="cell-output-display">
 <div>
 <figure class="figure">

diff --git a/_book/ch_4_adding_features.html b/_book/ch_4_adding_features.html
@@ -196,18 +196,6 @@ pre > code.sourceCode > span > a:first-child::before { text-decoration: underlin
 </li>
         <li class="sidebar-item">
   <div class="sidebar-item-container"> 
-  <a href="./ch_9_organising_study_code.html" class="sidebar-item-text sidebar-link">
- <span class="menu-text"><span class="chapter-number">9</span>&nbsp; <span class="chapter-title">Organising study code</span></span></a>
-  </div>
-</li>
-        <li class="sidebar-item">
-  <div class="sidebar-item-container"> 
-  <a href="./ch_10_efficient_study_code.html" class="sidebar-item-text sidebar-link">
- <span class="menu-text"><span class="chapter-number">10</span>&nbsp; <span class="chapter-title">Efficient study code</span></span></a>
-  </div>
-</li>
-        <li class="sidebar-item">
-  <div class="sidebar-item-container"> 
   <a href="./references.html" class="sidebar-item-text sidebar-link">
  <span class="menu-text">References</span></a>
   </div>
